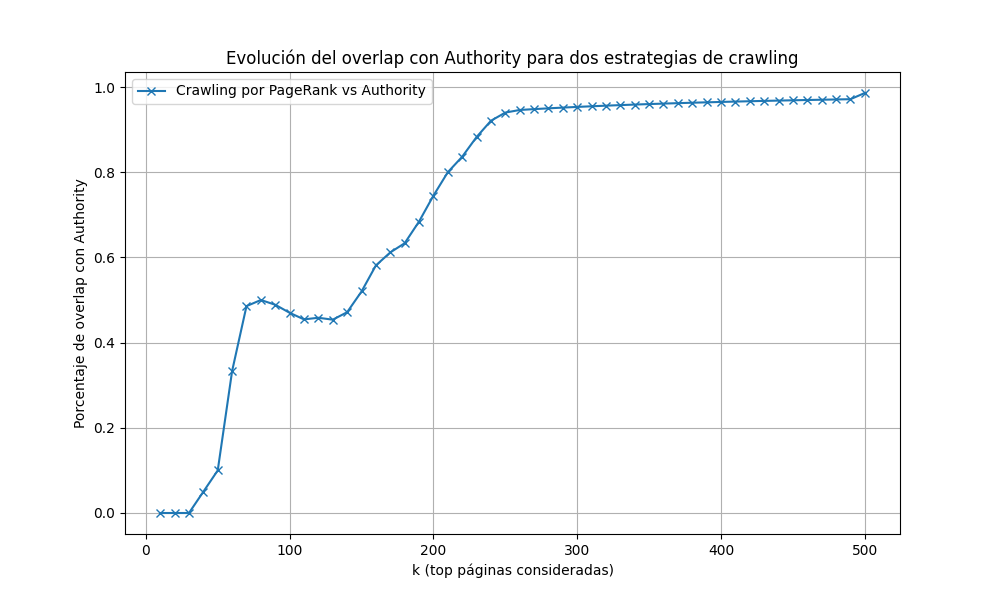
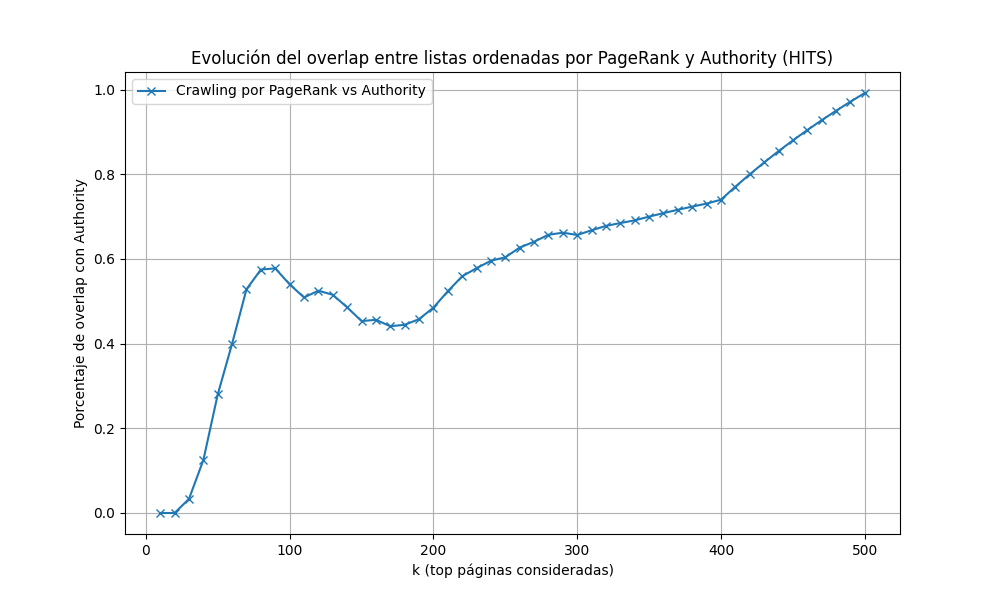
fin tp

diff --git a/TP05 - Crawling/ejercicio5/ejercicio5.py b/TP05 - Crawling/ejercicio5/ejercicio5.py
@@ -124,7 +124,7 @@ def main():
     pagerank = nx.pagerank(G, alpha=0.85)
     hits_auth, _ = nx.hits(G, max_iter=1000)
 
-    # Ordenamientos
+    # Ordenamientos (de mayor a menor)
     orden_pr = [
         node for node, _ in sorted(pagerank.items(), key=lambda x: x[1], reverse=True)
     ]
@@ -133,13 +133,20 @@ def main():
     ]
 
     # Calcular overlap para ambos enfoques
+    # Creamos una lista de valores de k, que van de 10 hasta el menor valor entre 500 y la cantidad de nodos del grafo, de a 10 en 10.
     ks = list(range(10, min(501, len(G.nodes())), 10))
+    # Inicializamos una lista vacía para guardar los valores de solapamiento (overlap) entre los top-k de autoridad y pagerank.
     overlap_pr = []
 
+    # Iteramos para cada valor de k en la lista ks.
     for k in ks:
+        # Obtenemos el conjunto de los k nodos con mayor autoridad.
         top_auth = set(orden_auth[:k])
+        # Obtenemos el conjunto de los k nodos con mayor pagerank.
         top_pr = set(orden_pr[:k])
+        # Calculamos la intersección entre ambos conjuntos (nodos que están en ambos top-k).
         inter_pr = top_auth & top_pr
+        # Calculamos el porcentaje de solapamiento y lo agregamos a la lista.
         overlap_pr.append(len(inter_pr) / k)
 
     # Graficar comparación
@@ -147,7 +154,7 @@ def main():
     plt.plot(ks, overlap_pr, label="Crawling por PageRank vs Authority", marker="x")
     plt.xlabel("k (top páginas consideradas)")
     plt.ylabel("Porcentaje de overlap con Authority")
-    plt.title("Evolución del overlap con Authority para dos estrategias de crawling")
+    plt.title("Evolución del overlap entre listas ordenadas por PageRank y Authority (HITS)")
     plt.grid(True)
     plt.legend()
     
